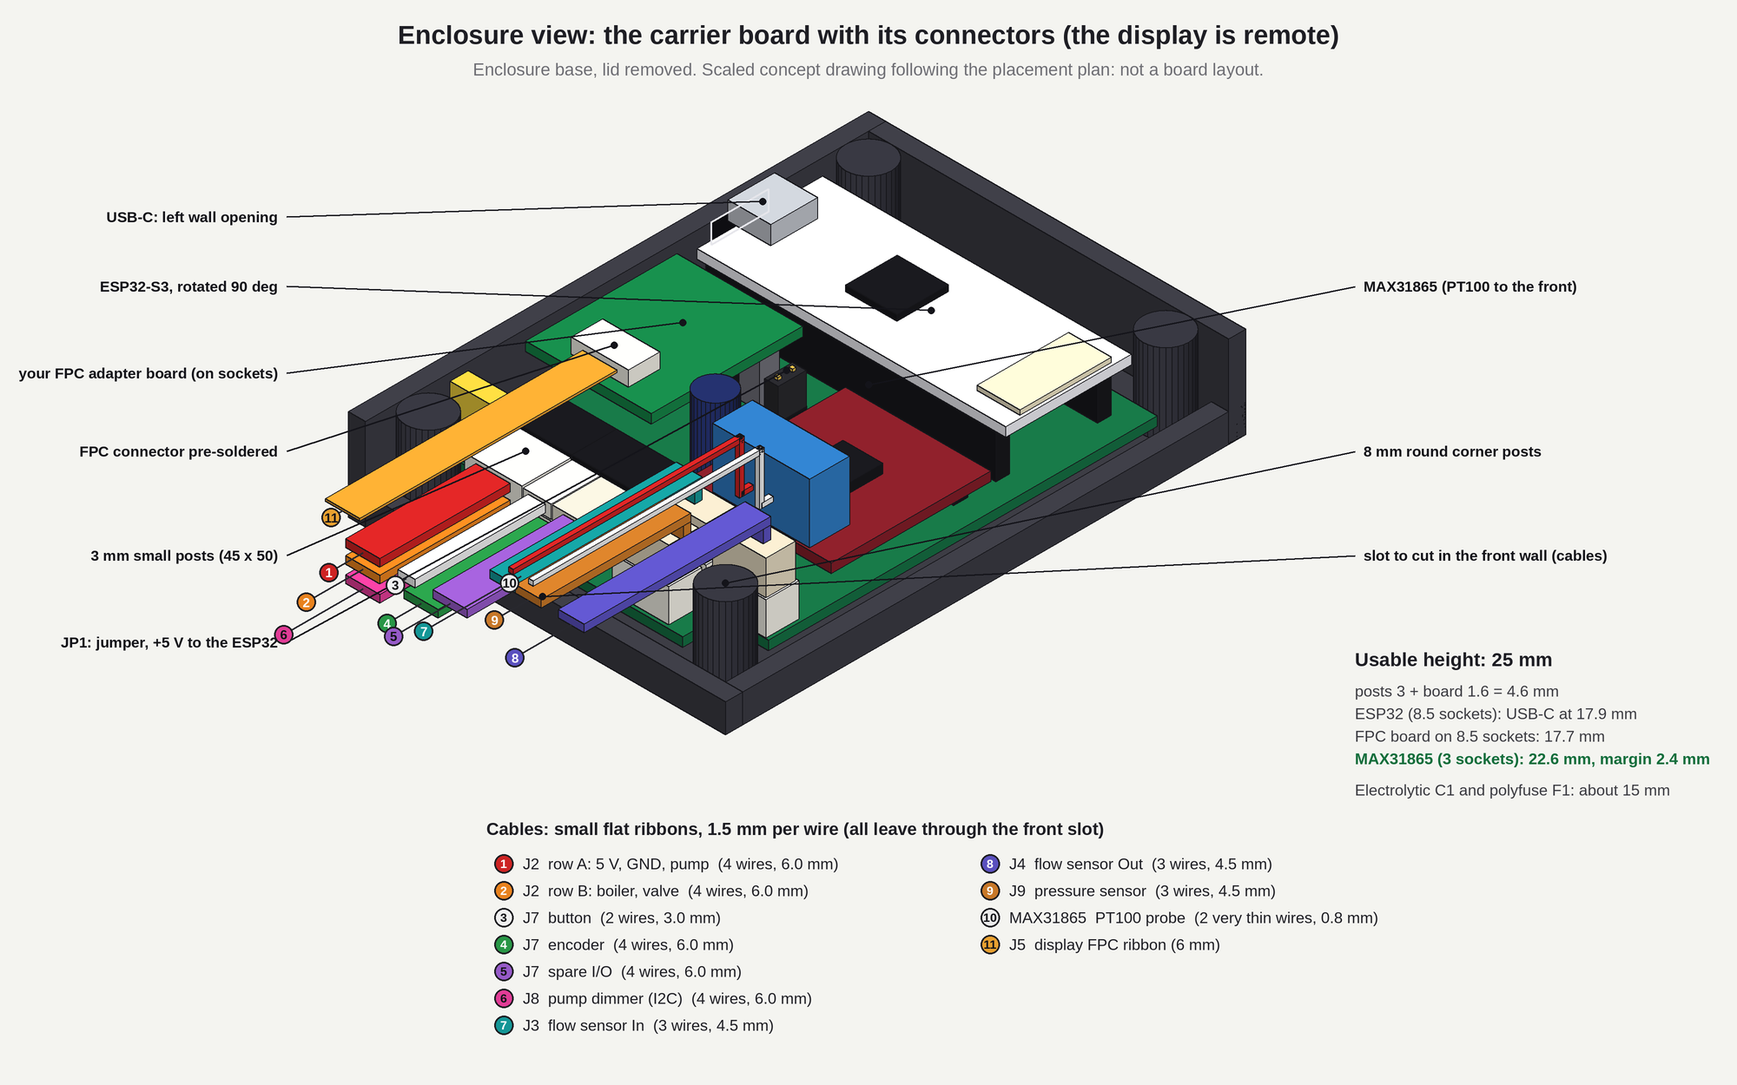
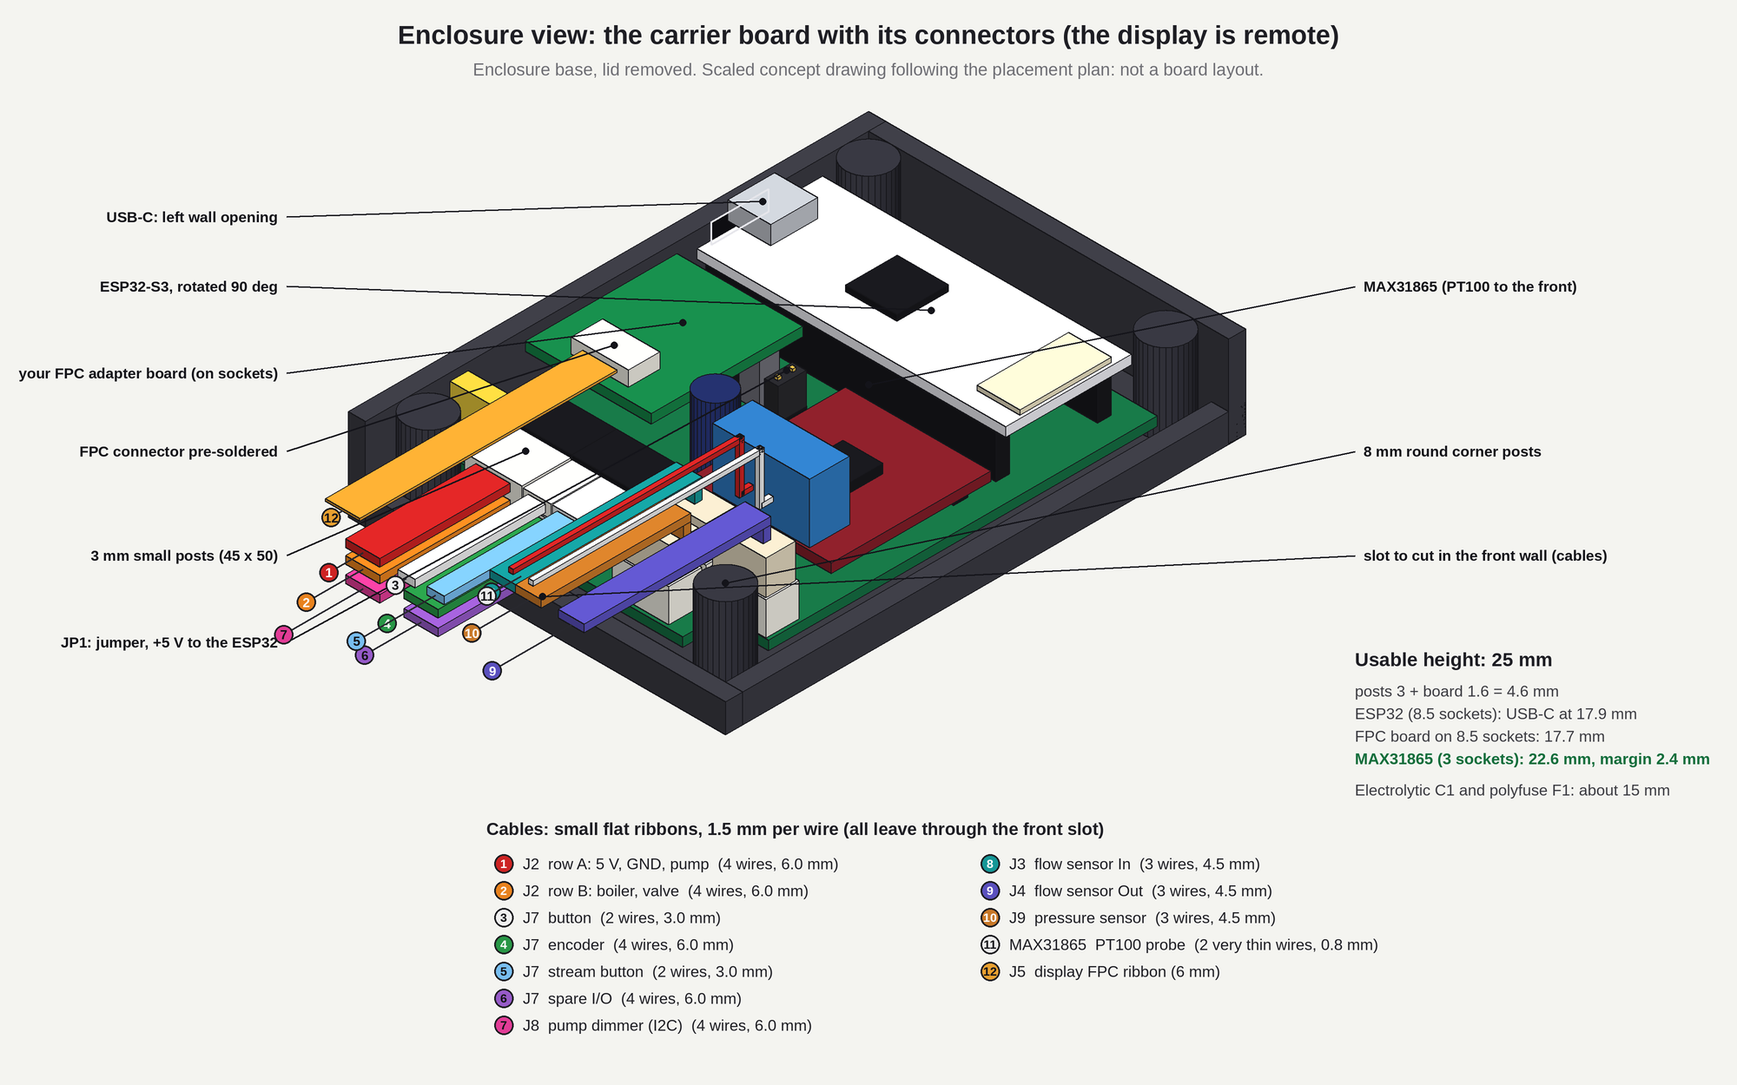
J7 as a 3 x 4 header: start + stream buttons (GPIO 6 / 41), encoder, spare I/O
Claude-Session: https://claude.ai/code/session_012AnZeUFZeKvHXGUDRfJG7Q

Changed region(s): [[0.558, 0.78, 0.806, 0.9048], [0.279, 0.8736, 0.465, 0.9672], [0.186, 0.4368, 0.372, 0.624]]

diff --git a/tools/board_schematic.py b/tools/board_schematic.py
@@ -31,7 +31,7 @@ def head(x, y, title, sub=None):
     if sub:
         T(x, y + 28, sub, F(15), GRY, 'lm')
 
-# ---- J2 + J8 : 3 x 4 right-angle header (3 stacked rows), J7 : 3 x 6
+# ---- J2 + J8 : 3 x 4 right-angle header (3 stacked rows), J7 : 3 x 4
 head(60, 118, "J2 + J8: right-angle 3 x 4 male header", "rows A and B: J2 (one 2 x 4 housing, two ribbons of 4 wires); row C: J8")
 rowA = [("+5 V", RED), ("GND", DK), ("pump +", BRN), ("pump −", BRN)]
 rowB = [("boiler +", ORG), ("boiler −", ORG), ("valve +", YEL), ("valve −", YEL)]
@@ -49,19 +49,19 @@ T(x0 + 370, 288, "row C: J8 pump dimmer, RobotDyn (I2C)", F(14, True), VIO, 'lm'
 T(x0 + 370, 312, "a 2 x 4 housing can be plugged 180 degrees the wrong way:", F(13), GRY, 'lm')
 T(x0 + 370, 330, "mark it, or key the header", F(13), GRY, 'lm')
 
-head(60, 366, "J7: right-angle 3 x 6 male header (row C: bare pads)")
-j7a = [("button", (90, 90, 96)), ("GND", DK), ("+5 V", RED), ("IN 38", VIO), ("OUT 39", VIO), ("GND", DK)]
+head(60, 366, "J7: right-angle 3 x 4 male header")
+j7a = [("button", (90, 90, 96)), ("GND", DK), ("stream", (90, 90, 96)), ("GND", DK)]
 j7b = [("GA", GRN), ("GB", GRN), ("+5 V", RED), ("GND", DK)]
-j7c = [("spare", (150, 150, 156))] * 3
+j7c = [("+5 V", RED), ("IN 38", VIO), ("OUT 39", VIO), ("GND", DK)]
 for i, (lab, col) in enumerate(j7a):
     pin(60 + i * 88, 396, lab, col, 14)
 for i, (lab, col) in enumerate(j7b):
     pin(60 + i * 88, 442, lab, col, 14)
 for i, (lab, col) in enumerate(j7c):
     pin(60 + i * 88, 488, lab, col, 14)
-T(620, 418, "row A: button (2) + spare I/O (4)", F(14), GRY, 'lm')
-T(620, 464, "row B: encoder (module order)", F(14), GRY, 'lm')
-T(620, 510, "row C: 3 spare pads, bare (not connected)", F(14), GRY, 'lm')
+T(440, 418, "row A: start button (2) + stream button (2)", F(14), GRY, 'lm')
+T(440, 464, "row B: encoder (module order)", F(14), GRY, 'lm')
+T(440, 510, "row C: spare I/O (5 V, level-adapted in / out)", F(14), GRY, 'lm')
 
 # ---- J3 / J4
 head(60, 628, "J3, J4: JST XH 3-pin, flow sensors In and Out", "sensor wire order: often red / yellow / black: check your cable")
@@ -70,9 +70,9 @@ for k, (name, x) in enumerate([("J3  flow In", 60), ("J4  flow Out", 480)]):
     for i, (lab, col) in enumerate([("+5 V", RED), ("signal", BLU), ("GND", DK)]):
         pin(x + i * 88, 710, lab, col, 14)
 # J9: same JST XH order, pressure sensor (on the tab under J3), drawn under J7 where there is room
-T(60, 530, "J9  pressure sensor (JST XH 3-pin, same order as J3 / J4)", F(15, True), INK, 'lm')
+T(60, 546, "J9  pressure sensor (JST XH 3-pin, same order as J3 / J4)", F(15, True), INK, 'lm')
 for i, (lab, col) in enumerate([("+5 V", RED), ("signal", BLU), ("GND", DK)]):
-    pin(60 + i * 88, 546, lab, col, 14)
+    pin(60 + i * 88, 562, lab, col, 14)
 
 # ---- J5
 head(60, 790, "J5: 2 x 4 socket for your FPC adapter board (8 pins)", "your board's numbering: top row 1, 3, 5, 7; bottom row 2, 4, 6, 8")
@@ -96,7 +96,7 @@ T(gx, 118, "ESP32-S3: pins used", F(22, True), INK, 'lm')
 rows = [("5V", "+5 V via JP1 (after diode and fuse)", RED), ("3V3", "display, I2C pull-ups (3.3 V side)", RED),
         ("GPIO 17", "pump SSR drive", BRN), ("GPIO 18", "boiler SSR drive", ORG), ("GPIO 21", "valve SSR drive", YEL),
         ("GPIO 15", "flow In", BLU), ("GPIO 16", "flow Out", BLU), ("GPIO 1", "pressure sensor (ADC)", BLU),
-        ("GPIO 4 / 5", "encoder A / B", GRN), ("GPIO 6", "start button", (90, 90, 96)),
+        ("GPIO 4 / 5", "encoder A / B", GRN), ("GPIO 6 / 41", "start / stream buttons", (90, 90, 96)),
         ("GPIO 47 / 48", "dimmer I2C: SDA / SCL", VIO),
         ("GPIO 11 / 12 / 13", "SPI: MOSI / SCK / MISO", VIO), ("GPIO 10", "display CS", VIO), ("GPIO 9 / 8", "display DC / RST", VIO),
         ("GPIO 14", "display BLK (direct, Q4 optional)", VIO), ("GPIO 7", "MAX31865 CS", VIO), ("GPIO 38", "spare input on J7 (5 V divider)", (150, 150, 156)), ("GPIO 39", "spare output on J7 (to 5 V, inverting)", (150, 150, 156))]

diff --git a/tools/enclosure_overview.py b/tools/enclosure_overview.py
@@ -159,13 +159,12 @@ cuboid(CX0 + 27.2 - 1.2, CY0 + 33.0 - 1.2, top + 2.5, 2.4, 4.9, 5.5, (40, 40, 44
 cuboid(CX0 + 12.2 - 1.27, CY0 + 57.7, top, 10.16, 7.8, 8.4, BLACK)
 cuboid(CX0 + 12.2 - 1.27 + 0.15, CY0 + 65.6, top + 2.9, 10.0, 8.6, 5.1, WHITE)
 cuboid(CX0 + 12.2 - 1.27 + 0.15, CY0 + 65.6, top + 0.1, 10.0, 8.6, 2.3, (225, 222, 205))   # J8 housing (row C, the lowest)
-# J7: 3 x 6 right-angle header (A: button + spare, B: encoder, C: spare, bare)
-cuboid(CX0 + 22.4 - 1.27, CY0 + 57.7, top, 15.24, 7.8, 8.4, BLACK)
-cuboid(CX0 + 22.4 - 1.27 + 0.15, CY0 + 65.6, top + 2.95, 10.0, 8.6, 2.3, WHITE)
+# J7: 3 x 4 right-angle header (A: start button + stream button, B: encoder, C: spare I/O)
+cuboid(CX0 + 22.4 - 1.27, CY0 + 57.7, top, 10.16, 7.8, 8.4, BLACK)
 cuboid(CX0 + 22.4 - 1.27 + 0.15, CY0 + 65.6, top + 5.5, 4.9, 8.6, 2.3, WHITE)
-cuboid(CX0 + 22.4 - 1.27 + 5.23, CY0 + 65.6, top + 5.5, 9.9, 8.6, 2.3, (225, 222, 205))
-for i in range(3):                                                                       # the bare pins of row C (spare)
-    cuboid(CX0 + 22.4 + i * 2.54 - 0.32, CY0 + 65.5, top + 1.27 - 0.32, 0.64, 6.0, 0.64, GOLD)
+cuboid(CX0 + 22.4 - 1.27 + 5.23, CY0 + 65.6, top + 5.5, 4.9, 8.6, 2.3, (235, 235, 235))
+cuboid(CX0 + 22.4 - 1.27 + 0.15, CY0 + 65.6, top + 2.95, 10.0, 8.6, 2.3, WHITE)
+cuboid(CX0 + 22.4 - 1.27 + 0.15, CY0 + 65.6, top + 0.1, 10.0, 8.6, 2.3, (225, 222, 205))
 # polyfuse, standing diode, electrolytic, 100 nF, and the two JST XH (vertical headers with their plugs)
 cuboid(CX0 + 1.9, CY0 + 64.4, top, 7.2, 3.2, 11.0, (232, 200, 60))
 cuboid(CX0 + 1.2, CY0 + 61.2, top, 2.7, 2.7, 5.2, BLACK)
@@ -226,11 +225,12 @@ xj2 = CX0 + 12.2 + 1.5 * 2.54
 cA, cB = (205, 35, 35), (232, 130, 30)
 run_x(xj2, Y0, Y_END, top + 2.9 + 3.82, 4, cA); cable("row A: 5 V, GND, pump", "J2", 4, cA, (xj2, Y_END, top + 2.9 + 3.82))
 run_x(xj2, Y0, Y_END, top + 2.9 + 1.28, 4, cB); cable("row B: boiler, valve", "J2", 4, cB, (xj2, Y_END, top + 2.9 + 1.28))
-# J7: button (2 wires), encoder (4 wires, lower row), spare I/O (4 wires)
-xb, xe, xs = CX0 + 22.4 + 1.27, CX0 + 22.4 + 3.81, CX0 + 22.4 + 8.89
+# J7: start button (2 wires), stream button (2 wires), encoder (4 wires, middle row), spare I/O (4 wires, lowest row)
+xb, xb2, xe, xs = CX0 + 22.4 + 1.27, CX0 + 22.4 + 6.35, CX0 + 22.4 + 3.81, CX0 + 22.4 + 3.81
 run_x(xb, Y0, Y_END, top + 6.65, 2, (240, 240, 240)); cable("button", "J7", 2, (240, 240, 240), (xb, Y_END, top + 6.65))
 run_x(xe, Y0, Y_END, top + 4.1, 4, (40, 150, 70)); cable("encoder", "J7", 4, (40, 150, 70), (xe, Y_END, top + 4.1))
-run_x(xs, Y0, Y_END, top + 6.65, 4, (150, 90, 200)); cable("spare I/O", "J7", 4, (150, 90, 200), (xs, Y_END, top + 6.65))
+run_x(xb2, Y0, Y_END, top + 6.65, 2, (120, 190, 240)); cable("stream button", "J7", 2, (120, 190, 240), (xb2, Y_END, top + 6.65))
+run_x(xs, Y0, Y_END, top + 1.27, 4, (150, 90, 200)); cable("spare I/O", "J7", 4, (150, 90, 200), (xs, Y_END, top + 1.27))
 # J8: pump dimmer (I2C), 4 wires, lowest row of the J2 header
 c8 = (225, 60, 150)
 run_x(xj2, Y0, Y_END, top + 1.27, 4, c8); cable("pump dimmer (I2C)", "J8", 4, c8, (xj2, Y_END, top + 1.27))

diff --git a/tools/board_placement.py b/tools/board_placement.py
@@ -181,17 +181,16 @@ for c_, lab in enumerate(["+5V", "GND", "P+", "P−"]):
     text(d, X(12.2 + c_ * 2.54), Y(ROWS[0]) - 1.9 * K, lab, 7, SILK, True)
 for c_, lab in enumerate(["5V", "GND", "SDA", "SCL"]):
     text(d, X(12.2 + c_ * 2.54), Y(ROWS[2]) + 1.9 * K, lab, 7, SILK, True)
-# J7: 3 x 6 right-angle header. Row A: button (2) + spare I/O (4); row B: encoder (GA, GB, VCC, GND); row C: 3 spare pads, bare, not connected (the pressure sensor is J9, a JST XH under J3).
-for c_ in range(6):
-    tpad(22.4 + c_ * 2.54, ROWS[0], square=(c_ == 0), ring=1.7, drill=1.0)
-for c_ in range(4):
-    tpad(22.4 + c_ * 2.54, ROWS[1], ring=1.7, drill=1.0)
-for c_ in range(3):
-    tpad(22.4 + c_ * 2.54, ROWS[2], ring=1.7, drill=1.0)
-rect(d, X(22.4) - 1.4 * K, Y(ROWS[0]) - 1.4 * K, X(22.4 + 5 * 2.54) + 1.4 * K, Y(ROWS[2]) + 1.4 * K, outline=SILK + (255,), width=2)
-silk(33.2, 55.3, "J7 (A, B)", 9)
-for c_, lab in enumerate(["BT", "GND", "5V", "IN", "OUT", "GND"]):
+# J7: 3 x 4 right-angle header. Row A: start button (2) + stream button (2); row B: encoder (GA, GB, VCC, GND); row C: spare I/O (+5 V, IN, OUT, GND). (The pressure sensor is J9, a JST XH under J3.)
+for r_ in range(3):
+    for c_ in range(4):
+        tpad(22.4 + c_ * 2.54, ROWS[r_], square=(r_ == 0 and c_ == 0), ring=1.7, drill=1.0)
+rect(d, X(22.4) - 1.4 * K, Y(ROWS[0]) - 1.4 * K, X(22.4 + 3 * 2.54) + 1.4 * K, Y(ROWS[2]) + 1.4 * K, outline=SILK + (255,), width=2)
+silk(26.2, 55.3, "J7 (A, B, C)", 9)
+for c_, lab in enumerate(["BT", "GND", "BT2", "GND"]):
     text(d, X(22.4 + c_ * 2.54), Y(ROWS[0]) - 1.9 * K, lab, 7, SILK, True)
+for c_, lab in enumerate(["5V", "IN", "OUT", "GND"]):
+    text(d, X(22.4 + c_ * 2.54), Y(ROWS[2]) + 1.9 * K, lab, 7, SILK, True)
 # JP1: 1 x 2 header + shunt in the corridor: +5 V board to the 5V pin of the ESP32 (fitted: normal; removed: the ESP32 on USB only)
 tpad(27.2, 33.0, square=True, ring=1.7, drill=1.0); tpad(27.2, 35.54, ring=1.7, drill=1.0)
 rect(d, X(27.2) - 1.4 * K, Y(33.0) - 1.4 * K, X(27.2) + 1.4 * K, Y(35.54) + 1.4 * K, outline=SILK + (255,), width=2)
@@ -282,7 +281,7 @@ comp = [
     "J2  right-angle 3 x 4 header, rows A, B: 5 V supply and SSRs  ·  row C: J8, pump dimmer (I2C)",
     "J3, J4  JST XH 3-pin: flow sensors In and Out  ·  J9  JST XH 3-pin: pressure sensor (on the tab, under J3)",
     "J5  2 x 4 socket: FPC adapter board",
-    "J7  right-angle 3 x 6 header, rows A, B: button, encoder, spare I/O  ·  row C: 3 spare pads, bare",
+    "J7  right-angle 3 x 4 header: A start + stream buttons, B encoder, C spare I/O",
     "JP1  1 x 2 header + jumper: +5 V to the ESP32 (removed: ESP32 on USB only)",
     "Q1 to Q3  SSR drive ; Q4  backlight (optional)",
     "R1 to R4  1 kΩ  ·  R5 to R8  10 kΩ  ·  R9, R10, R17, R18  5 V input dividers (GA, GB, IN)",

diff --git a/docs/carrier_spec.md b/docs/carrier_spec.md
@@ -10,12 +10,12 @@ All **through-hole** parts (no SMD soldering). Related files: `images/board_plac
 - Usable depth **25 mm**: posts 3 + board 1.6 = 4.6 mm; ESP32 on 8.5 mm sockets (USB-C at 17.9 mm); FPC adapter board on 8.5 mm sockets (17.7 mm); MAX31865 on low 3 mm sockets (22.6 mm, 2.4 mm margin).
 - **ESP32-S3 rotated 90 degrees** (long side across the board, at the back, y 3 to 25 mm): **USB-C towards the left wall**, with an opening in that wall at y 9 to 19 mm (the connector is then far from the 8 mm corner posts). The antenna end is on the right (x 48.5 to 56.5 mm).
 - **Under the ESP32 (between the two socket rows, 8.5 mm clearance):** vertical axial resistors R1 to R10, then Q1 to Q4 on the right; Q5 (spare output) at the left, next to the USB end. The two small standoffs at the back (6.5, 9) and (51.5, 9) are under the ESP32; the one on the right is under the antenna, so use a **non-plated hole with no copper ring** there.
-- **Connector rows:** J8 is the lowest row of the J2 header; the J7 header is a 3-row right-angle strip like J2 + J8, its lowest row (row C, 3 pads) is a spare row, bare, not connected; each row has its own Dupont housing, rows are 2.54 mm apart vertically, the housings are not keyed: mind the order. J8 and J9 both have their plug and cable. The corridor between the FPC board and the MAX31865 holds JP1, C1 and C2.
+- **Connector rows:** J8 is the lowest row of the J2 header; J7 is also a 3 x 4 right-angle strip (row A: start and stream buttons, row B: encoder, row C: spare I/O); each row has its own Dupont housing, rows are 2.54 mm apart vertically, the housings are not keyed: mind the order. J8 and J9 both have their plug and cable. The corridor between the FPC board and the MAX31865 holds JP1, C1 and C2.
 - **Below the ESP32, side by side:** the FPC adapter board on the **left** (x 1.5 to 23.5 mm, connector towards the front, flow-input parts R11 to R16 and C3, C4 under it), the MAX31865 on the **right** (x 31 to 56.4 mm, rotated 180 degrees: header on its rear edge, pin 1 VIN on the right, PT100 terminal block facing the front), and a corridor between them (x 23.5 to 31 mm) holding J8, J9, C1 and C2.
 - **Front connector row:** right-angle headers with their Dupont housings need about **9 mm in front of the pads** (keep-out, nothing else there); J2 and J7 are on the 42 x 7 mm tab, the vertical JST XH J3 and J4 at the front right, F1 and D1 in the front-left corner. A cable slot is needed in the front wall (housings end about 1 mm from it).
 - **All cables leave through the front** (J2, J7, J3, J4, the PT100 wires and the display ribbon). Only the USB-C cable leaves through the left wall.
 - **Display ribbon:** the FPC adapter board is rotated so that its connector faces the front: the flat ribbon (about 6 mm wide, at about 15.5 mm) runs **straight to the front** between x 7 and 18 mm, above J2's housings (10.5 mm) and F1; no tall part (JST XH plugs reach about 16 mm) may sit in that column. Nothing crosses the MAX31865 any more.
-- **Cables:** small flat ribbons (Dupont wires side by side), about **1.5 mm per wire** (4 wires = 6 mm, 3 wires = 4.5 mm, 2 wires = 3 mm), 1.3 mm thick. In the 3D view the cables are numbered 1 to 11 (J2 x2, J7 x3, J8, J3, J4, J9, PT100 probe, display ribbon); J3 / J4 leave their plugs upwards at about 12 mm and the two thin PT100 wires (0.8 mm, on the two middle terminals of the MAX31865 block) at about 15 mm; all go through the front slot. J9 (pressure sensor, 3 wires = 4.5 mm) leaves its plug upwards at about 14 mm, like J3 / J4. J8 (pump dimmer, 4 wires = 6 mm) comes out of the lowest housing of the J2 header, under the two J2 ribbons.
+- **Cables:** small flat ribbons (Dupont wires side by side), about **1.5 mm per wire** (4 wires = 6 mm, 3 wires = 4.5 mm, 2 wires = 3 mm), 1.3 mm thick. In the 3D view the cables are numbered 1 to 12 (J2 x2, J7 x4, J8, J3, J4, J9, PT100 probe, display ribbon); J3 / J4 leave their plugs upwards at about 12 mm and the two thin PT100 wires (0.8 mm, on the two middle terminals of the MAX31865 block) at about 15 mm; all go through the front slot. J9 (pressure sensor, 3 wires = 4.5 mm) leaves its plug upwards at about 14 mm, like J3 / J4. J8 (pump dimmer, 4 wires = 6 mm) comes out of the lowest housing of the J2 header, under the two J2 ribbons.
 - The spare-I/O resistors R17 to R21 are flat resistors under the MAX31865 (3 mm clearance, enough for axial 1/4 W parts).
 - No copper and no component under the ESP32 antenna (the end of the ESP32 board opposite the USB-C).
 
@@ -26,7 +26,7 @@ All **through-hole** parts (no SMD soldering). Related files: `images/board_plac
 | J3, J4 | JST XH 3-pin, vertical, rotated (real pitch 2.5 mm) | flow sensors In and Out |
 | J5 | 2 x 4 female socket | FPC adapter board (8 pins, ribbon to the remote display) |
 | J6 | 1 x 8 female socket (low, 3 mm) | MAX31865 module |
-| J7 | rows A and B of a **3 x 6 right-angle male header** | button + encoder (encoder powered from 5 V) + 4 spare I/O pins (+5 V, level-adapted input, level-adapted output, GND) |
+| J7 | a **3 x 4 right-angle male header** | row A: start button + stream-mode button; row B: encoder (powered from 5 V); row C: 4 spare I/O pins (+5 V, level-adapted input, level-adapted output, GND) |
 | J8 | row C (the lowest) of the J2 header, 4 pins | RobotDyn 4 A pump dimmer, **I2C** (powered from 5 V, through an I2C level shifter) |
 | J9 | JST XH 3-pin, vertical, on the tab right under J3 (centre x 42, y 71.5) | pressure sensor 0.5 to 4.5 V, 0 to 12 bar (powered from 5 V) |
 | JP1 | 1 x 2 male header + shunt jumper | +5 V board to the 5V pin of the ESP32 (see Circuits) |
@@ -40,13 +40,14 @@ All **through-hole** parts (no SMD soldering). Related files: `images/board_plac
 
 **One 2 x 4 Dupont housing**, two ribbons of 4 wires (one per row): ribbon 1 = 5 V supply and pump SSR, ribbon 2 = boiler SSR and valve SSR. Warning: an unkeyed 2 x 4 housing can be plugged 180 degrees the wrong way round (+5 V would land on the valve SSR "−" input and so on). Use a **keyed (shrouded) 2 x 4 IDC-style header** with its notch, or at least mark the housing and the header.
 
-### J7 (rows A and B of the 3 x 6 header, right-angle: stacked rows of Dupont housings; row C = spare, bare)
-| | 1 | 2 | 3 | 4 | 5 | 6 |
-|---|---|---|---|---|---|---|
-| Row A (upper) | button (GPIO 6) | GND | **+5 V** | **IN (GPIO 38)** | **OUT (GPIO 39)** | **GND** |
-| Row B (lower) | GA (GPIO 4) | GB (GPIO 5) | +5 V | GND | not used | not used |
+### J7 (3 x 4 right-angle header: three stacked rows of Dupont housings)
+| | 1 | 2 | 3 | 4 |
+|---|---|---|---|---|
+| Row A (upper) | start button (GPIO 6) | GND | stream button (GPIO 41) | GND |
+| Row B (middle) | GA (GPIO 4) | GB (GPIO 5) | +5 V | GND |
+| Row C (lower) | **+5 V** | **IN (GPIO 38)** | **OUT (GPIO 39)** | **GND** |
 
-Housings: row A = 2-pin (button) + 4-pin (**spare I/O: +5 V, IN, OUT, GND**); row B = 4-pin (CJMCU-111 encoder, in the module's own order: GA, GB, VCC = +5 V, GND). The CJMCU-111 module has only these four pins (photo): GA, GB, VCC, GND; its push button is carried by the GA line, so there is no separate push wire (the firmware's encoder library recognises the push from the GA edges, with the 0 Ω hack on the module's push resistor). Stacking the spare pins above the encoder, rather than extending the row to the right, keeps J7 only about 17 mm wide, so it does not run into J3 / J4.
+Housings: row A = two 2-pin (start button, stream-mode button: dry contacts to GND, internal pull-ups, debounce in firmware); row B = 4-pin (CJMCU-111 encoder, in the module's own order: GA, GB, VCC = +5 V, GND). The CJMCU-111 module has only these four pins (photo): GA, GB, VCC, GND; its push button is carried by the GA line, so there is no separate push wire (the firmware's encoder library recognises the push from the GA edges, with the 0 Ω hack on the module's push resistor). Row C = 4-pin (**spare I/O: +5 V, IN, OUT, GND**). Three stacked rows keep J7 only about 10 mm wide, so it stays well clear of J3 / J4.
 
 **Spare IN (GPIO 38), 5 V to 3.3 V:** 4.7 kΩ in series (R17) to the GPIO and 10 kΩ from the GPIO to GND (R18): a 5 V signal becomes 3.4 V. Input only. For a 3.3 V source, replace R17 by a 0 Ω link and leave R18 out (the divider would give only 2.2 V, below the input-high threshold of about 2.5 V).
 
@@ -113,7 +114,7 @@ VIN (**+5 V**: the Adafruit board has its own 3.3 V regulator), 3Vo (unused), GN
 Silkscreen read on the photo, left column from the USB-C end: GND, 5V, G48, BOOT, 48, 47, 38, 39, 40, 21, GND, 18, 17, 16, 15, 41, 42, 45, 46. Right column: GND, 3V3, PWR, RST, 14, 13, 12, 11, 10, 09, 08, 07, GND, 06, 05, 04, 03, 02, 01. Every GPIO used in this design (1, 4, 5, 6, 7, 8, 9, 10, 11, 12, 13, 14, 15, 16, 17, 18, 21, 38, 39, 47, 48) is broken out on this board, and the strapping pins to avoid (0 = BOOT, 3, 45, 46) are the ones marked. Still free: 2 (right), 40, 41, 42 (left). To confirm by you: exact board size (the photo suggests about 22 x 54 mm plus about 1.5 mm of USB-C overhang), pin count per side (about 20), and row spacing.
 
 ## ESP32-S3 pins
-5V, 3V3, GND; GPIO 17 (pump SSR), 18 (boiler SSR), 21 (valve SSR); 15 (flow In), 16 (flow Out); 4 / 5 (encoder); 6 (button); 11 / 12 / 13 (SPI MOSI / SCK / MISO); 10 (display CS); 9 / 8 (display DC / RST); 14 (backlight); 7 (MAX31865 CS); 47 / 48 (dimmer, I2C SDA / SCL); 1 (pressure, ADC); 38 (spare, on J7). Avoided: 0, 3, 45, 46, 19, 20, 35 to 37 (not broken out on this board).
+5V, 3V3, GND; GPIO 17 (pump SSR), 18 (boiler SSR), 21 (valve SSR); 15 (flow In), 16 (flow Out); 4 / 5 (encoder); 6 (start button); 41 (stream button); 11 / 12 / 13 (SPI MOSI / SCK / MISO); 10 (display CS); 9 / 8 (display DC / RST); 14 (backlight); 7 (MAX31865 CS); 47 / 48 (dimmer, I2C SDA / SCL); 1 (pressure, ADC); 38 (spare, on J7). Avoided: 0, 3, 45, 46, 19, 20, 35 to 37 (not broken out on this board).
 
 ## Circuits
 - **Power:** J2 A1 (+5 V) → 1.1 A resettable fuse → 1N5819 diode (reverse protection) → +5 V rail (470 µF + 100 nF) → **JP1** → 5V pin of the ESP32. The 3.3 V comes from the ESP32 board. **JP1** (1 x 2 header + shunt jumper): **fitted = normal operation**, the ESP32 takes its 5 V from the external supply through the Dupont connector; **removed = the ESP32 is powered by its USB port only** (the rest of the board stays on the external supply). Never fit JP1 while a USB cable is plugged in: the two 5 V sources would be tied together (and the supply could back-feed the computer).
@@ -129,7 +130,7 @@ Silkscreen read on the photo, left column from the USB-C end: GND, 5V, G48, BOOT
 | 2 | 1 x 20 female sockets, 8.5 mm | 1 € |
 | 1 | MAX31865 module (owned) + low 1 x 8 socket | 0.3 € |
 | 1 | 8-pin FPC board (owned) + 2 x 4 male header + 2 x 4 female socket | 0.5 € |
-| 1 | 3-row right-angle 2.54 mm male header strip ("courbé" 3 x 40, e.g. Funduino, about 1.7 €): cut one 3 x 4 (J2 + J8) and one 3 x 6 (J7, row C spare) | 1.7 € |
+| 1 | 3-row right-angle 2.54 mm male header strip ("courbé" 3 x 40, e.g. Funduino, about 1.7 €): cut two 3 x 4 (J2 + J8, and J7) | 1.7 € |
 | 1 | 1 x 2 male header + shunt jumper (JP1) | 0.2 € |
 | 3 | JST XH 3-pin headers (J3, J4, J9) | 0.7 € |
 | 4 | 2N2222A transistors (3 SSRs + spare output; backlight stage optional) | 0.6 € |

diff --git a/README.md b/README.md
@@ -24,7 +24,7 @@ Status: **working design, nothing has been manufactured.** Placement is to scale
 - Through-hole parts only (no SMD soldering).
 - ESP32-S3 (rotated 90 degrees, USB-C to the left) and MAX31865 module on sockets; FPC adapter board (remote display) on a 2 x 4 socket, its ribbon going straight to the front.
 - SSRs are kept, driven by 2N2222A transistors from the external 5 V supply.
-- Connectors: J2 2 x 4 (5 V + 3 SSRs), J7 3 x 6 right-angle (button + encoder, 5 V, spare I/O; row C bare), J8 1 x 4 (pump dimmer, I2C), 3 x JST XH 3-pin (J3, J4 flow sensors In and Out; J9 pressure sensor, on the tab under J3).
+- Connectors: J2 2 x 4 (5 V + 3 SSRs), J7 3 x 4 right-angle (start + stream buttons, encoder, spare I/O), J8 1 x 4 (pump dimmer, I2C), 3 x JST XH 3-pin (J3, J4 flow sensors In and Out; J9 pressure sensor, on the tab under J3).
 
 ## To confirm before manufacturing
 See the end of `docs/carrier_spec.md`.
